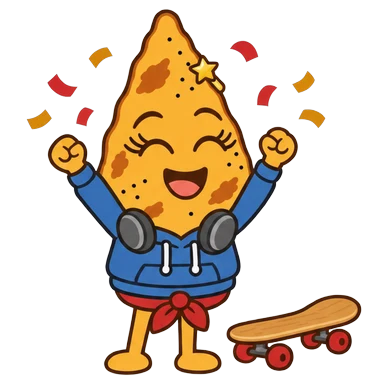
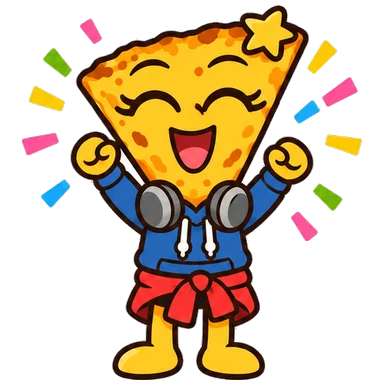
Mascotte du collège au féminin : nouvelle socca à l'envers
Claude-Session: https://claude.ai/code/session_01J1vkerBPNDTBzHrhCgH55g

diff --git a/CLAUDE.md b/CLAUDE.md
@@ -14,7 +14,7 @@ Ce dépôt (leian/UNIVERSALQUIZ, nom gardé pour ne pas changer l'adresse GitHub
 - Remise à zéro (Réglages, cases à cocher, propriétaire seulement, confirmation = prénom) : `apiRemettreAZero` — deux cases : résultats (Sheets renommé « (archive du …) » + nouveau tableau, avec la mémoire des appareils : propriété `RAZ` → `__UQ.raz`, `pont.html` efface une fois `uqSuivi.*` (sauf `.off`), `sq.*`, `uq-bib-vu`) et quiz à la corbeille. Le site et son lien restent.
 - Thèmes d'âge : `moteur/commun/themes.css` (petits, lecteurs, explorateurs = style de base, college, lycee, parent). Le serveur pose `<html data-theme>` d'après la classe (`classe_()`, Réglages → `apiClasse`, montée automatique chaque 1er septembre) et ajoute ces styles en fin d'en-tête de chaque page. Les images des thèmes iront sur GitHub Pages (`docs/themes/<thème>/`).
 - Mascotte du lycée : deux tenues au choix du parent (`MASCOTTES_LYCEE` : gothique par défaut, rap), Réglages → liste « Mascotte » sous la classe, affichée seulement au lycée → `apiMascotte` (propriété `MASCOTTE`) ; le serveur pose `<html data-mascotte>` au lycée, images `docs/themes/lycee-<tenue>/` (l'ancienne `docs/themes/lycee/`, lunettes et veste en jean, reste en secours). Mascotte parent : costume bleu marine et cravate (17 nov. 2026).
-- Allure de la mascotte (17 nov. 2026) : au féminin, au masculin ou neutre (la socca de toujours). Par défaut devinée d'après le prénom (`genreDuPrenom_` : listes `PRENOMS_MIXTES_`, `PRENOMS_F_`, `PRENOMS_M_`, puis terminaisons très marquées ; dans le doute : neutre) ; Réglages → « Allure de la mascotte » (Automatique — libellé seul, sans rappel du prénom —, Au féminin, Au masculin, Neutre) → `apiGenre` (propriété `GENRE`, absente = automatique). On ne parle que du dessin, jamais du genre de l'enfant (pas de « fille / garçon ») ; textes du site toujours neutres. Dessins disponibles par allure : `DESSINS_GENRE = { f: [thèmes], m: [thèmes] }` et `SAISONS_GENRE` (Code.gs) ; le réglage est proposé pour les thèmes ayant au moins une allure (`GENRES_DESSINES`), une allure sans dessin pour le thème est grisée « (dessins bientôt prêts) » et retombe sur la socca de toujours (`cfg.genreEffectif = 'n'`) ; le serveur pose `<html data-genre="f|m">` et, si le costume de saison existe dans cette allure, `data-genre-saison`. Images : `docs/themes/<thème>-f/` et `-m/`, `lycee-<tenue>-f/` et `-m/`, `saisons/<saison>-f/` et `-m/` ; règles CSS déjà écrites dans `themes.css`. **Au féminin : tout est en place depuis le 22 nov. 2026** (6 thèmes, 2 tenues du lycée, 8 saisons ; barrette étoile dorée et cils ; au lycée gothique, version sans longs cils). **Au masculin (sourcils plus épais et épi) : tout est en place depuis le 22 nov. 2026** aussi (Noël refait sans les confettis coupés). Nouveau thème ou nouvelle saison : déposer les deux versions, puis les ajouter à `DESSINS_GENRE` / `SAISONS_GENRE`. Le saut de la mascotte a été retiré le 22 nov. 2026 : plus de planche de saut à faire. La socca à habiller (petits) reste la socca de base. Nouvelle tête au féminin (socca à l'envers, `outils/mascotte-f-chatgpt.md`) : petits, lecteurs, explorateurs, lycée gothique et rap, parent en ligne le 27 nov. 2026 ; collège et saisons à refaire. Planches rendues par ChatGPT (2×2 : accueil, bravo / encouragement, réflexion ; 2×1 pour une saison ; bande de 6 pour le saut) : `python3 outils/decouper-planche.py <planche.png> docs/themes/<thème>-f` (fond blanc rendu transparent depuis les bords, cases 384×384 posées en bas, WebP).
+- Allure de la mascotte (17 nov. 2026) : au féminin, au masculin ou neutre (la socca de toujours). Par défaut devinée d'après le prénom (`genreDuPrenom_` : listes `PRENOMS_MIXTES_`, `PRENOMS_F_`, `PRENOMS_M_`, puis terminaisons très marquées ; dans le doute : neutre) ; Réglages → « Allure de la mascotte » (Automatique — libellé seul, sans rappel du prénom —, Au féminin, Au masculin, Neutre) → `apiGenre` (propriété `GENRE`, absente = automatique). On ne parle que du dessin, jamais du genre de l'enfant (pas de « fille / garçon ») ; textes du site toujours neutres. Dessins disponibles par allure : `DESSINS_GENRE = { f: [thèmes], m: [thèmes] }` et `SAISONS_GENRE` (Code.gs) ; le réglage est proposé pour les thèmes ayant au moins une allure (`GENRES_DESSINES`), une allure sans dessin pour le thème est grisée « (dessins bientôt prêts) » et retombe sur la socca de toujours (`cfg.genreEffectif = 'n'`) ; le serveur pose `<html data-genre="f|m">` et, si le costume de saison existe dans cette allure, `data-genre-saison`. Images : `docs/themes/<thème>-f/` et `-m/`, `lycee-<tenue>-f/` et `-m/`, `saisons/<saison>-f/` et `-m/` ; règles CSS déjà écrites dans `themes.css`. **Au féminin : tout est en place depuis le 22 nov. 2026** (6 thèmes, 2 tenues du lycée, 8 saisons ; barrette étoile dorée et cils ; au lycée gothique, version sans longs cils). **Au masculin (sourcils plus épais et épi) : tout est en place depuis le 22 nov. 2026** aussi (Noël refait sans les confettis coupés). Nouveau thème ou nouvelle saison : déposer les deux versions, puis les ajouter à `DESSINS_GENRE` / `SAISONS_GENRE`. Le saut de la mascotte a été retiré le 22 nov. 2026 : plus de planche de saut à faire. La socca à habiller (petits) reste la socca de base. Nouvelle tête au féminin (socca à l'envers, `outils/mascotte-f-chatgpt.md`) : petits, lecteurs, explorateurs, collège, lycée gothique et rap, parent en ligne le 27 nov. 2026 ; saisons à refaire. Planches rendues par ChatGPT (2×2 : accueil, bravo / encouragement, réflexion ; 2×1 pour une saison ; bande de 6 pour le saut) : `python3 outils/decouper-planche.py <planche.png> docs/themes/<thème>-f` (fond blanc rendu transparent depuis les bords, cases 384×384 posées en bas, WebP).
 - Saisons : `saisonDe_()` (Noël en décembre, hiver, Pâques calculé, printemps, été, rentrée 1-20 sept., Halloween 15 oct.-2 nov., automne) pose `<html data-saison>` ; couleurs `--s1/--s2/--s3`, frise, petite animation (petits, lecteurs, explorateurs) et confettis dans `themes.css` / `recompenses.js`. Réglages → `apiSaison` (propriété `SAISON_OFF`), aperçu par `…/exec?saison=noel`. Frises (en haut des pages) et mascottes costumées (accueil, bravo ; petits et primaire seulement) : `docs/themes/saisons/<saison>/`.
 - Révisions : le moteur envoie pour chaque question une clé stable `k` et, si elle est ratée, la question entière `o` (colonne `questions` du Sheets). `revisions_()` applique la répétition espacée (1, 3, 7, 21 jours) et le défi du mois (ratées le mois précédent) ; pages virtuelles `revisions` et `defi` fabriquées par `pageRevision_()`, section « Pour toi » sur l'accueil de l'enfant.
 - Maîtrise et récompenses : `maitrise_()` (serveur, cache 600 s) calcule le niveau de chaque notion (catégorie) et la série de chaque question ; posé dans `__UQ.maitrise` (tirage intelligent, passage à l'écrit, notions, album). Récompenses par profil (`PROFILS` du moteur) : animaux rares (le saut de la mascotte en bas à droite, `saut.webp`, a été retiré le 22 nov. 2026 à la demande de Yan, doublon de la mascotte compagne), album d'autocollants (`docs/themes/recompenses/autocollants.webp`, 6×4) au primaire, socca à habiller chez les petits (depuis la v3.7 : nouveaux accessoires de Yan — chef, couronne, casquette, écharpe, lunettes, nœud, cape, bonnet, bandeau étoile, pirate, chapeau de fête, étoile — planches `accessoires2.webp` (boutons, sans déformation), `accessoires2-avant.webp` et `accessoires2-dos.webp` (cases étirées, la page leur redonne largeur et hauteur ; seule la cape a un dos), fabriquées par `outils/accessoires2-decouper.py` puis `outils/accessoires2-planches.py` ; `ACCESSOIRES` = [nom, x, y, largeur, hauteur] relevés sur l'aperçu fourni ; anciennes planches gardées pour les sites pas à jour. Avant : `accessoires.webp`, 12 accessoires (tête et visage seulement : écharpe et cape remplacées par oreilles de lapin et moustache) posés sur la mascotte de base, un par notion acquise, `ACCESSOIRES` dans `moteur/index.html` ; depuis la v2.84, deux calques par accessoire : `accessoires-dos.webp` derrière la socca (intérieur des chapeaux, serre-tête, arrière de la couronne de fleurs, ruban de la médaille) et `accessoires-avant.webp` devant, fabriqués par `python3 outils/accessoires-calques.py docs/themes/recompenses/accessoires.webp <dossier>` ; socca réduite dans `.in` pour laisser la place des chapeaux au-dessus ; `accessoires.webp` (nettoyé) reste pour les boutons et les anciennes versions), emblèmes `niveau-0..3.webp` au collège et dans l'espace parent, coche au lycée. **Postures du collège** (27 nov. 2026) : 20 postures animées (`POSES` dans `animations.js`, bandes de 6 images 384×384 `docs/themes/poses[-f|-m]/<id>.webp`, fabriquées par `outils/pose-planche.py` depuis une planche ChatGPT 3×2, prompts dans `outils/poses-chatgpt.md`) ; n'existent que celles listées dans `POSES_DESSINEES` (Code.gs → `__UQ.poses`, collège seulement). Gagnées avec les bonnes réponses enregistrées (1re à 10, puis une toutes les 25, duel exclu) ; une posture gagnée jouée à chaque bonne réponse (dans la mascotte compagne en 6e-5e, dans le coin en 4e-3e) ; accueil → « Mes postures » (`Animations.panneauPoses`, scène haute comme 3 autocollants, icône touchée = jouée). Au masculin et au féminin : les 20 en ligne (27 nov. 2026) ; socca de toujours : à dessiner.
